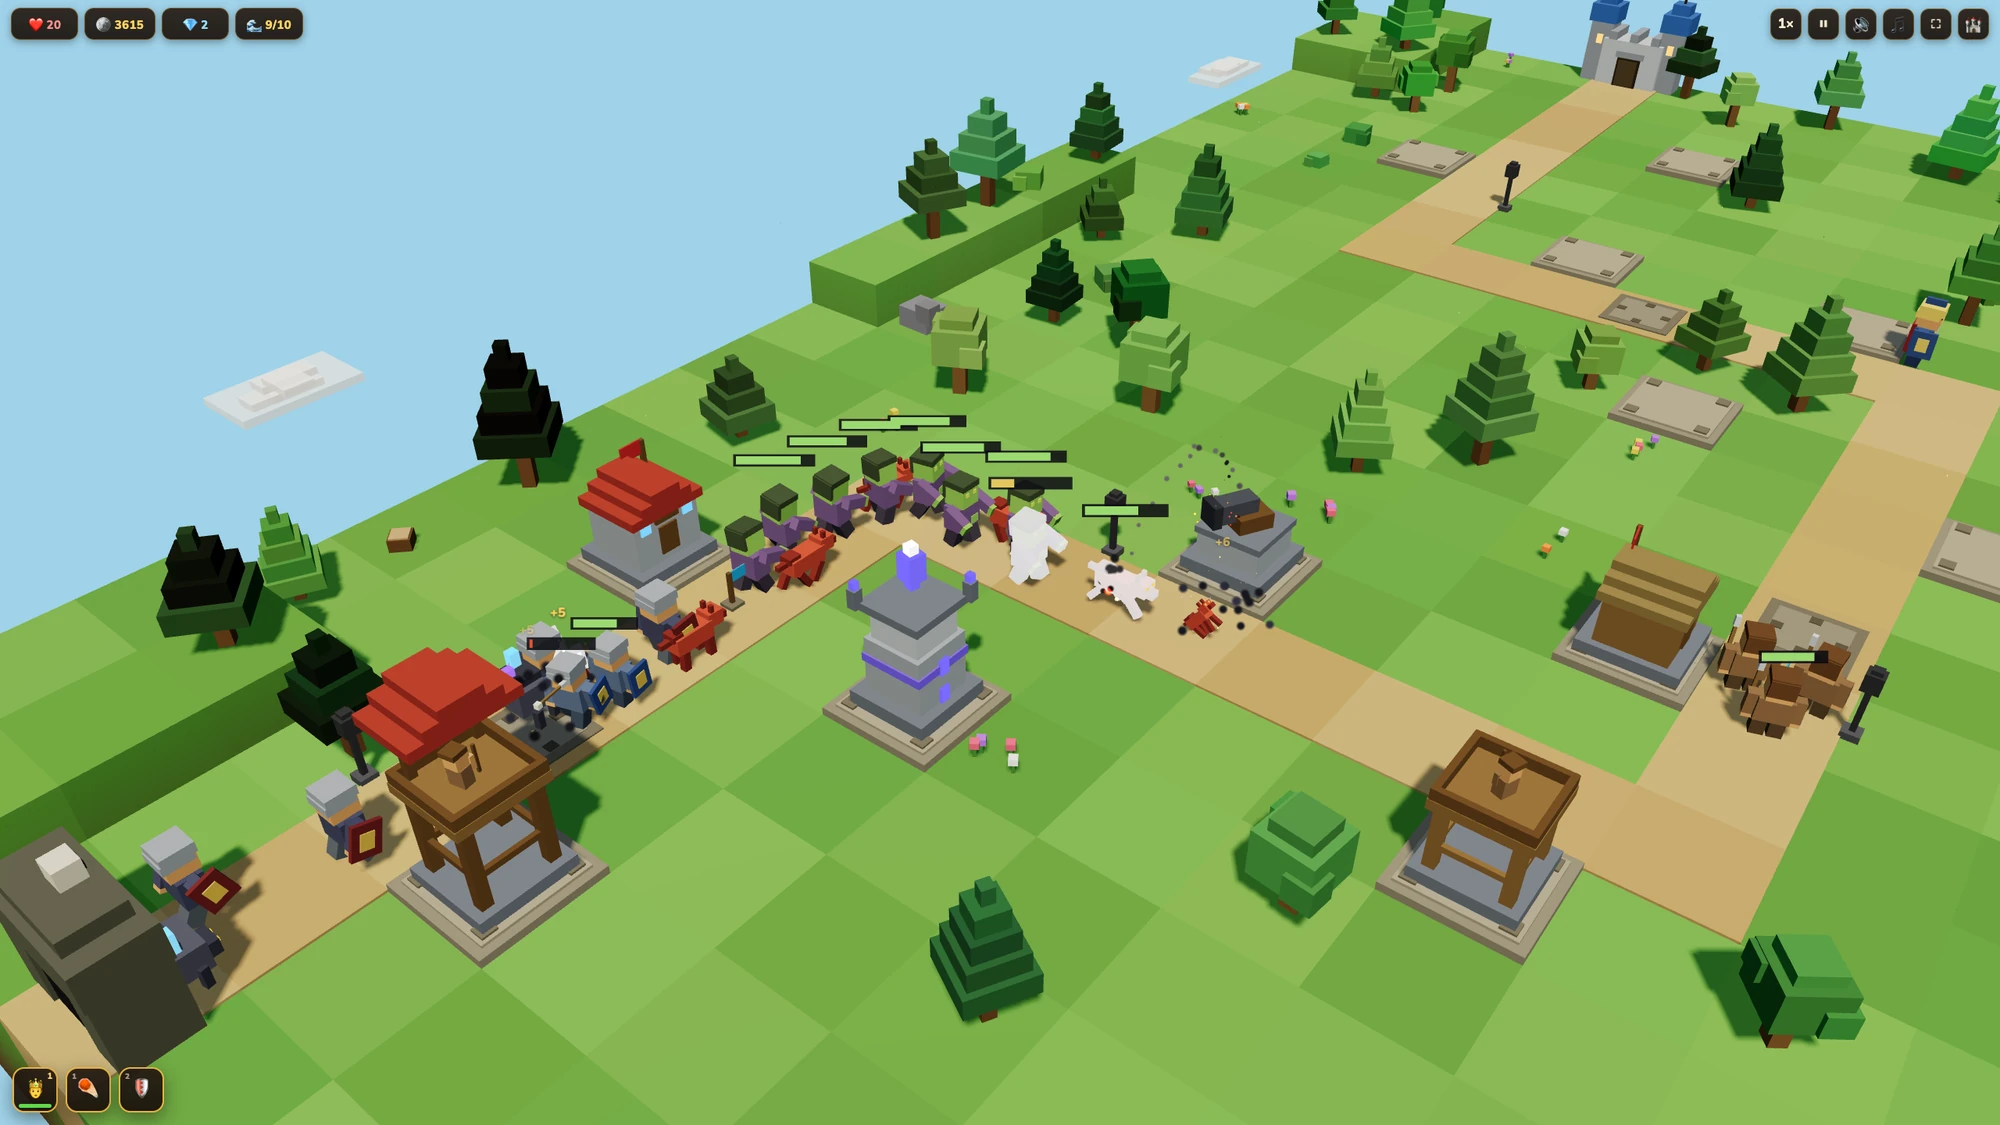
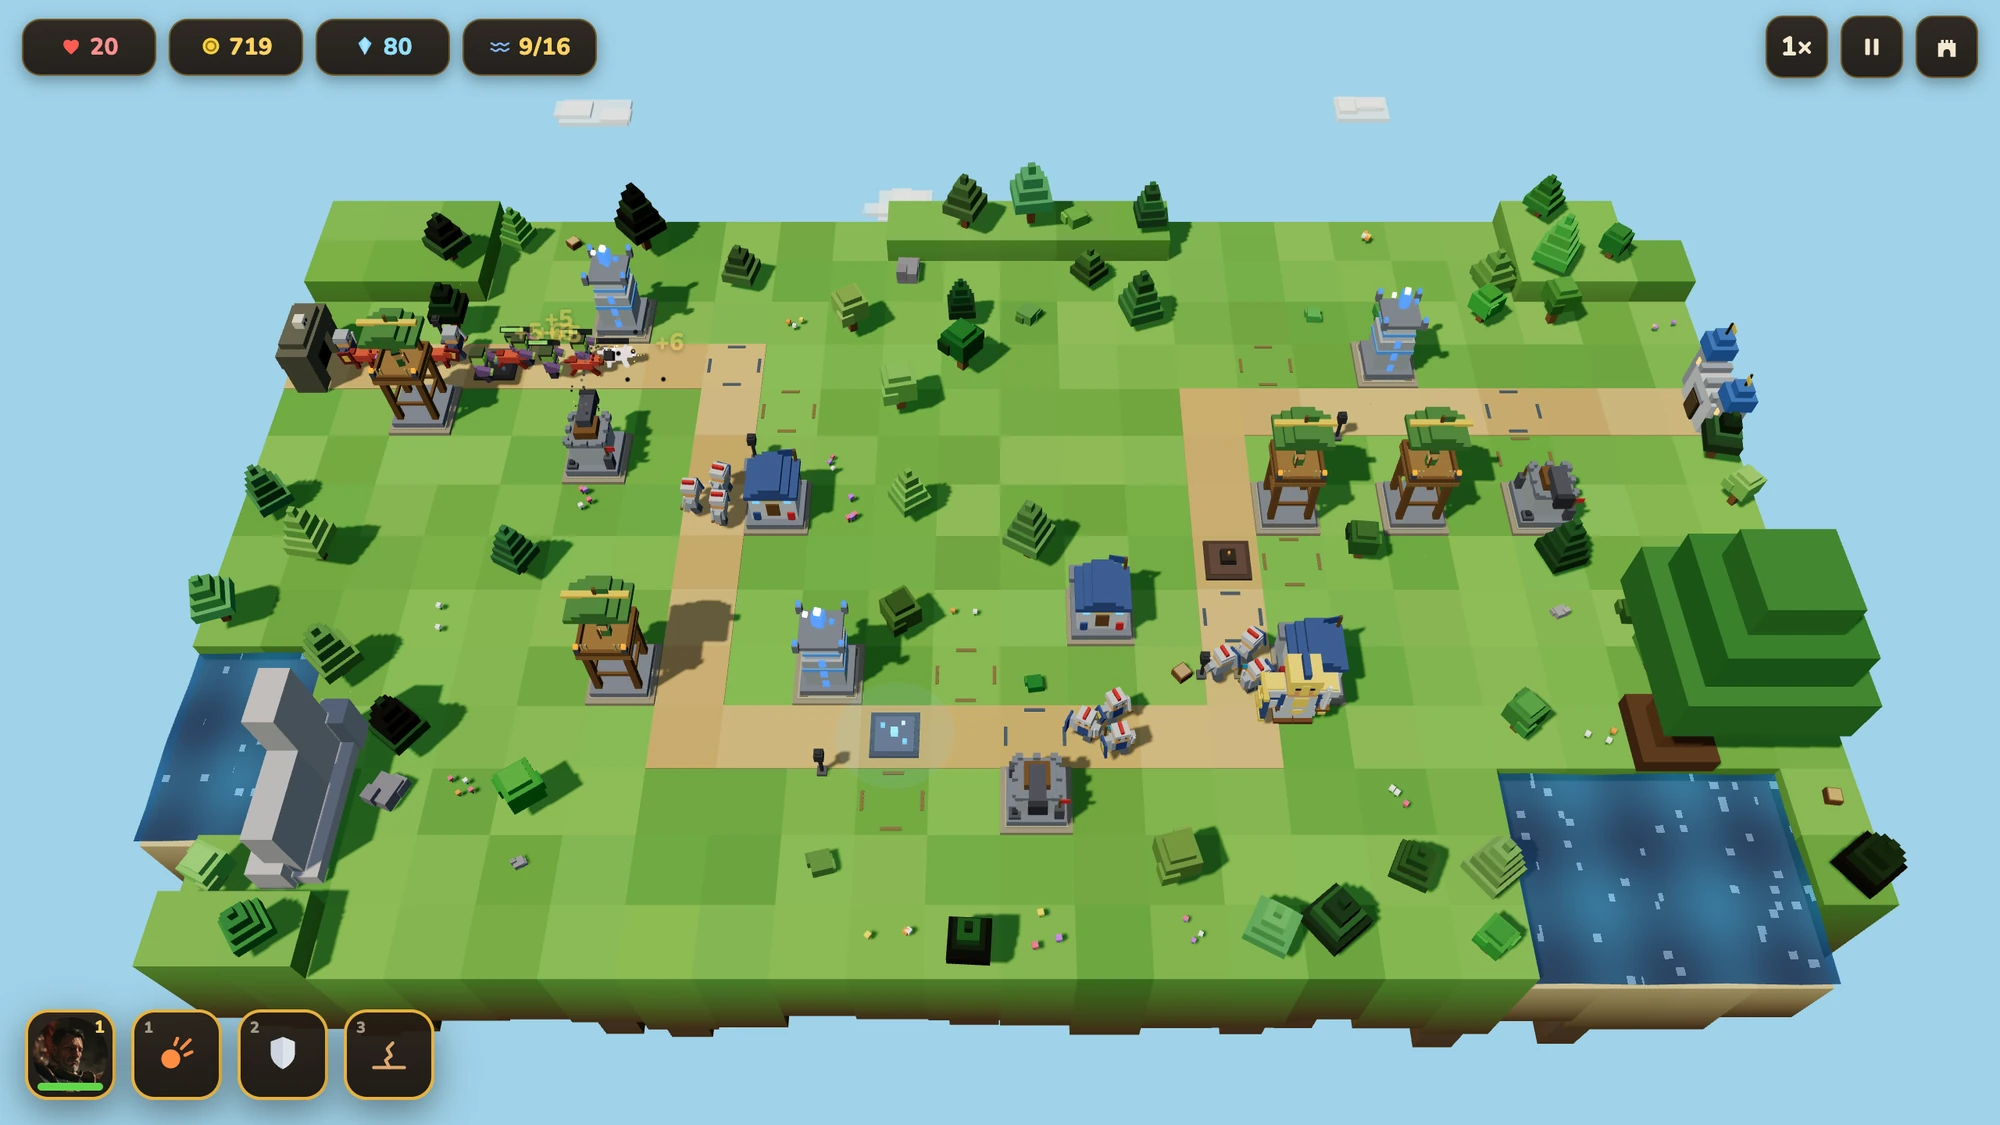
[portfolio] Blockhold at ten maps, and out of the Playground (#33)
The Blockhold entry described a five-map build. Live is at ten maps and 249
authored waves, and two of the card's claims had gone false with it: the map
count, and "there is no asset file anywhere in it" - the game now ships painted
map, hero and boss art on its menus. The entry is rewritten against the live
build: ten maps, the three post-finale boards that each break a rule the other
nine keep, the Royal Armory, the tier-5 crowns, 154 tests, and an assets claim
narrowed to what is still true - 3D models are code, audio is synthesized, UI
symbols are hand-drawn SVG.

Five new captures replace the old three, staged off a dev server running main
at 371d33a: every tower goes up through the game's own buildTower and every
wave arrives through its wave manager, so the frame is the game's simulation
rather than a mock-up. Only the clock is cheated. New lead on Greenhollow's
wave 16 of 16, and four board tabs across four climates - Greenhollow,
Frostmere under a Veiltide surge, Cinderwake Caldera, Tidereach Causeway.
Settle times are picked so each wave is still spawning, because the moment one
finishes the game raises its next-wave preview panel across the board.

Blockhold and Cubit come out of the Playground, where they had been link cards
since #31 and duplicated the full Projects entries added in #32. The doors row
and its four CSS rules go with them, on both routes, and the section lead-in
loses the sentence that only existed to introduce them.
[…]

diff --git a/src/data/content.ts b/src/data/content.ts
@@ -575,47 +575,58 @@ export const blockhold = {
   name: 'Blockhold',
   status: 'live' as Status,
   href: 'https://aj8uppal.github.io/blockhold/',
-  sub: 'Voxel tower defense. Five maps, three heroes, road traps, a shard economy, an endless mode.',
+  sub: 'Voxel tower defense. Ten maps, 249 authored waves, and three boards that each break a rule the other nine keep.',
   skim: {
-    role: 'All of it: the voxel modeler, the fixed-step sim, five maps, the balance.',
-    hard: 'Shipping a finished game with no asset files. Every model is colored boxes placed in code; every sound is synthesized the moment it plays.',
-    proof: 'Playable right now: five maps, three difficulties, an endless mode with saved records.',
+    role: 'All of it: the voxel modeler, the fixed-step sim, ten maps, 249 waves, the balance.',
+    hard: 'Shipping a game this size with almost nothing to download. Every model is colored boxes placed in code, every sound is synthesized the moment it plays, every icon is a hand-drawn SVG.',
+    proof:
+      'Playable right now: ten maps, three difficulties, three heroes, an endless mode with saved records.',
   },
   spread: {
     n: 'Plate 06 / Blockhold',
     t: 'The one that shipped',
-    s: 'A wave crashing into the soldier line on Greenhollow, the castle up the road.',
+    s: 'Greenhollow’s last wave walking into the line, the Hollow King somewhere in it.',
   },
-  framesLede: 'Three battles, three climates.',
+  framesLede: 'Four of the ten boards.',
   framesCue: 'Click a tab, or use the arrow keys',
   prose: [
-    'Elderwood Vale, one row up, is a tower defense as an architecture argument. This is the one that shipped: five maps, four tower families with elite branches, road traps, a shard economy, three heroes taking real move orders, surge waves under a violet sky, and an endless mode with a per-map record to chase.',
-    'There is no asset file anywhere in it. Every model is colored voxel boxes placed in code, and every sound is synthesized by WebAudio the moment it plays. I built it this August, working with agents: one writing under direction, one reviewing adversarially. Six review rounds, sixty-three findings, all of them closed before launch.',
+    'Elderwood Vale, one row up, is a tower defense as an architecture argument. This is the one that shipped. Ten maps and 249 authored waves, and under them four tower families that go three levels deep, split into two elite branches, and end in two different tier-5 crowns - so the branch you pick decides how the map ends. Plus road traps, a shard economy that overcharges and ascends towers, Veiltide surges under a violet sky, three heroes taking A* move orders, and an endless mode 200 waves deep with a record to chase.',
+    'The last three boards are past the finale, and each one breaks a rule the other nine keep. Sunderfall Terraces runs four roads at four heights, and a tower shoots from its own footing, so a ridge above you blocks the shot. Emberwind Reach sets a firestorm that follows your hero: lead it into the horde and it burns him too. Tidereach Causeway closes causeways and opens others mid-battle, and the traffic reroutes onto whatever is still standing, so the defense you paid for is not the one you keep.',
+    'Almost none of it is a file. Every model is colored voxel boxes placed in code, every sound is synthesized by WebAudio the moment it plays, and every symbol in the UI is a hand-drawn SVG. The deliberate exception is the painted art on the menus - map cards, heroes, bosses, a title screen - because a campaign screen wants a picture of the place, and a box cannot be one.',
+    'Built this August, working with agents - one writing under direction, one reviewing adversarially. Six rounds of that against the code, then a three-round design review where both models wrote independently and then attacked each other. Every report is committed next to the source.',
   ],
   plate: [
-    ['Status', 'Live, saves locally'],
-    ['Maps', 'Five, each with an endless mode'],
-    ['Towers', '4 families · 3 tiers · elite branches · shard ascensions'],
+    ['Status', 'Live, installable, saves locally'],
+    ['Campaign', 'Ten maps · 249 authored waves · up to five roads'],
+    ['Towers', '4 families · 3 tiers · 2 elite branches · 2 branch-locked crowns'],
     ['Heroes', 'Three, with A* move orders'],
-    ['Assets', 'None. Models are code, audio is synthesized'],
+    ['Meta', 'Royal Armory: 8 star-funded tracks, free respec'],
+    ['Endless', '200 waves per map, deepest-wave record'],
+    ['Assets', 'None in 3D. Models are code, audio is synthesized, icons are SVG'],
     ['Sim', 'Fixed 60 Hz tick behind an accumulator'],
-    ['Review', 'Six adversarial rounds, 63 findings closed'],
+    ['Tests', '154, vitest'],
+    ['Review', 'Six adversarial code rounds, then a three-round design review'],
   ] as Array<[string, string]>,
   figures: [
     {
       key: 'greenhollow',
       tab: 'Greenhollow',
-      cap: 'A wave 8 push meeting the soldier line at the barracks choke.',
+      cap: 'The first board entire: one road, thirteen plots, and the meadow you learn the trade on.',
     },
     {
       key: 'veiltide',
       tab: 'Veiltide surge',
-      cap: 'Frostmere Pass under a surge: empowered waves, violet sky, gargoyles over the snow.',
+      cap: 'Frostmere Pass under a surge: empowered waves, violet sky, both frozen roads engaged.',
     },
     {
-      key: 'crown',
-      tab: 'The finale',
-      cap: 'The Shattered Crown: Mistwalkers phasing between the void portals.',
+      key: 'cinderwake',
+      tab: 'Cinderwake',
+      cap: 'Cinderwake Caldera: three roads through the glassfire, lava where a plot could have been.',
+    },
+    {
+      key: 'tidereach',
+      tab: 'Tidereach',
+      cap: 'Tidereach Causeway, the widest board in the game: five roads, and a tide that closes them.',
     },
   ],
 } as const;
@@ -782,7 +793,7 @@ export const playground = {
      in this repository is dated 10 February 2015, so eleven years is a fact
      git will hand back to anyone who asks it. */
   statement: 'Eleven years of this, and the oldest ones still run.',
-  prose: ['Three of the oldest run here. The two newest need screens of their own. Go ahead.'],
+  prose: ['All three run here in the page, on their original code. Go ahead.'],
   items: [
     {
       yr: 'c. 2019',
@@ -810,24 +821,6 @@ export const playground = {
       statusLabel: 'Repaired',
       what: 'Doodle Jump in three dimensions, built while I was learning three.js. Its keyboard library vanished along with a CDN, so the dependencies now live in the repo.',
       k: 'three.js r70 · vendored deps',
-    },
-    {
-      yr: '2026',
-      name: 'Blockhold',
-      href: '/blockhold/',
-      status: 'live' as Status,
-      statusLabel: 'Runs',
-      what: 'A voxel tower defense: five maps, three heroes, road traps, a shard economy, an endless mode. There is no asset file anywhere in it - every model is boxes placed in code, every sound is synthesized at play time. I built it this August, working with agents.',
-      k: 'three.js · TypeScript · PWA',
-    },
-    {
-      yr: '2026',
-      name: 'Cubit',
-      href: '/cubit/',
-      status: 'live' as Status,
-      statusLabel: 'Runs',
-      what: '2048, cubed: slide and merge tiles inside a 3x3x3 cube, across six directions instead of four. Vanilla JS with a vendored three.js, bundled into a single self-contained HTML file.',
-      k: 'Vanilla JS · three.js',
     },
   ],
 } as const;

diff --git a/src/styles/global.css b/src/styles/global.css
@@ -3124,31 +3124,6 @@ summary,
   }
 }
 
-/* The doors row is all text: there is no frame to feed, so it splits evenly,
-   and it holds as a row long after the demos above have given theirs up. */
-.labs--doors {
-  grid-template-columns: minmax(0, 1fr) minmax(0, 1fr);
-}
-
-.labs--doors .stack {
-  color: var(--muted);
-  font: 650 0.69rem/1.45 var(--mono);
-}
-
-/* The two descriptions differ in length; the links should not differ in
-   height. The head takes the card's full drop and hands the gap to the
-   space above its link. */
-.labs--doors .lab__head {
-  flex: 1;
-  display: flex;
-  flex-direction: column;
-}
-
-.labs--doors .lab__head p:last-child {
-  margin-top: auto;
-  padding-top: 1rem;
-}
-
 /* The break before the game. Two demos, then a rule, then the one thing on the
    page still in someone else's colours - so the rule is the section's heaviest
    and the strip states what changes. It is a grid item, spanning whatever the

diff --git a/AGENTS.md b/AGENTS.md
@@ -40,6 +40,10 @@ Any rule that shapes one of these images needs `height: auto` alongside it.
 
 `npm run verify` drives the running site in headless Chromium and is the gate before calling visual work done.
 It needs a server already up: `npm run dev` for the source, `npm run preview` for the built output.
+
+Preview the output of `npm run build:lab`, not `npm run build`.
+The suite drives the design lab to prove each hero variant mounts, and a plain build resolves that component away (see below), so four assertions fail on a correct tree.
+`astro preview` also has to be bound with `--host 127.0.0.1`; the suite dials that literal address and the default bind does not answer it.
 Its reduced-motion context is a real `prefers-reduced-motion: reduce` browser context, not a stubbed media query.
 
 Reduced motion here is a separate code path, not a shorter duration.
